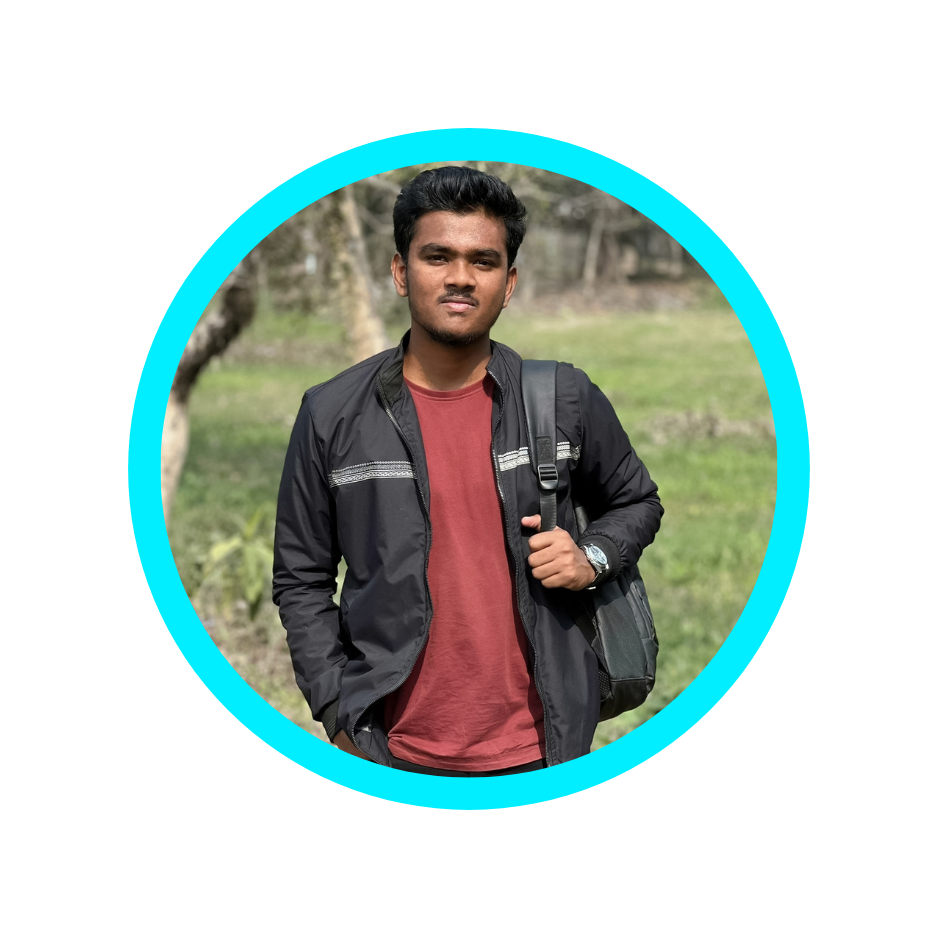
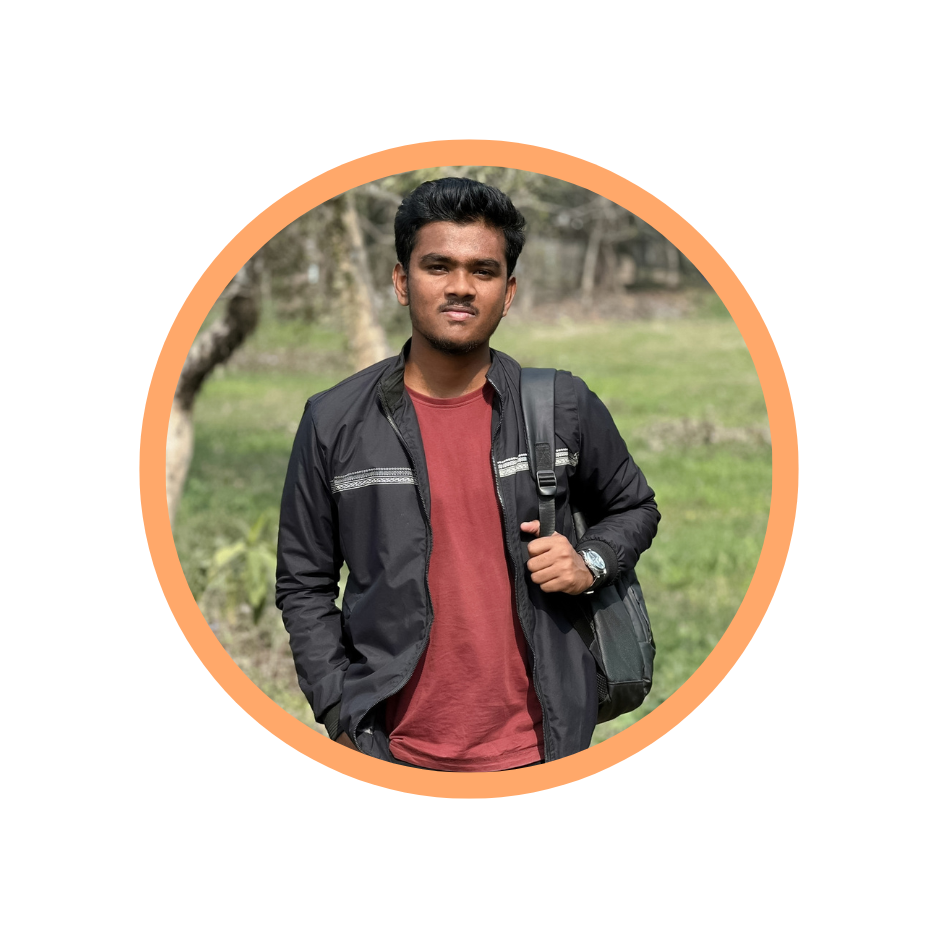
updated

Changed region(s): [[0.1237, 0.1237, 0.8657, 0.8657]]

diff --git a/style.css b/style.css
@@ -12,10 +12,10 @@
 }
 
 :root {
-  --bg-color: #1f242d;
-  --second-bg-color: #323946;
+  --bg-color: #000000;
+  --second-bg-color: #0c0c0c;
   --text-color: #fff;
-  --main-color: #0ef;
+  --main-color: #FFA86A;
 }
 
 html {
@@ -54,11 +54,35 @@ section {
   width: 100%;
 }
 
-.logo {
-  font-size: 2.5rem;
-  color: var(--text-color);
-  font-weight: 600;
-  cursor: pointer;
+.aside .logo a{
+    color: var(--text-color);
+    font-weight: 700;
+    padding: 10px 15px;
+    font-size: 22px;
+    letter-spacing: 1px;
+    position: relative;
+}
+
+.aside .logo a::before{
+    content: '';
+    position: absolute;
+    width: 25px;
+    height: 15px;
+    border-bottom: 5px solid var(--main-color);
+    border-left: 5px solid var(--main-color);
+    bottom: 0;
+    left: 0;
+}
+
+.aside .logo a::after{
+    content: '';
+    position: absolute;
+    width: 25px;
+    height: 15px;
+    border-top: 5px solid var(--main-color);
+    border-right: 5px solid var(--main-color);
+    top: 0;
+    right: 0;
 }
 
 .navbar a {

diff --git a/index.html b/index.html
@@ -17,9 +17,14 @@
 
 <body>
   <header class="header">
-    <a href="#home" class="logo"> azizul_ </a>
-    <i class='bx bx-menu' id="menu-icon"></i>
+    <div class="aside">
+      <div class="logo">
+        <a href="#home"> azizul_ </a>
+      </div>
+    </div>
 
+    <i class='bx bx-menu' id="menu-icon"></i>
+    
     <nav class="navbar">
       <a href="#home" class="active"> Home </a>
       <a href="#about"> About Me </a>
